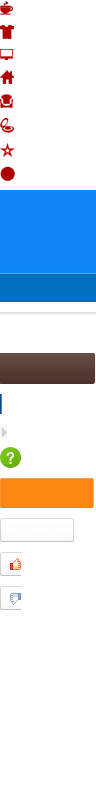
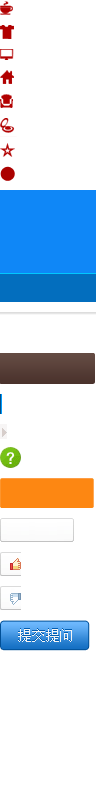
添加提问题的静态页面到程序
git-svn-id: http://www.svnchina.com/svn/xinwenda@28 847f1278-3494-4994-8dfb-0e8c01426fa5

Changed region(s): [[0.0, 0.75, 0.9375, 0.8125]]

diff --git a/static/css/style.css b/static/css/style.css
@@ -1,26 +1,26 @@
 @charset "utf-8";
 /* CSS Document */
 body{font-size:12px; padding:0px; margin:0px;}
-p,h1,h2,h3,h4,span,strong,a,img,table,td,tr,input,from,btn,ul,li,dl,dt,dd,em{margin:0px; padding:0px; list-style:none; border:none; font-style:normal;}
-a:link,a:visited{text-decoration:none; color:#333;}
+p,h1,h2,h3,h4,span,strong,a,img,table,td,tr,input,form,btn,ul,li,dl,dt,dd,em{margin:0px; padding:0px; list-style:none; border:none; font-style:normal;}
+a{text-decoration:none; color:#333;}
 a:hover{ text-decoration:underline; color:#f74c4b;}
-#top_box,.search_text,.search_btn,.food,.cloth,.education,.home,.decorate,.beautify,.new,.ask_title,.submit_btn,.praise,.praise_inner{ background:url(../images/icon.png) no-repeat;}
+#top_box,.search_text,.search_btn,.food,.cloth,.education,.home,.decorate,.beautify,.new,.ask_title,.submit_btn,.praise,.praise_inner,.question_btn{ background:url(../images/icon.png) no-repeat;}
 #top_box{width:100%; height:112px; background-position:0px -190px;background-repeat:repeat-x;}
 #top_box .top_inner{width:1010px; overflow:hidden; margin:0 auto; height:82px;}
 #top_box .logo{width:242px; height :41px; margin-top:25px; float:left;}
 #top_box .search_box{width:545px; height:58px; margin:10px 0 0; float:right;}
-#top_box .search_box p{color:#fff; height:25px; line-height:25px;}
+#top_box .search_box p{color:#fff; height:25px; line-height:25px; width:545px;}
 #top_box .search_box p a{color:#fff; margin-right:12px;}
 #top_box .search_box .search_text{float:left; width:440px; height:31px; line-height:31px;background-position:0px -312px; border-radius:5px 0 0 5px; background-repeat:repeat-x; padding-left:10px;}
-#top_box .search_box .search_btn{width:95px; height:31px;background-position:0px -353px; font-size:16px; font-family:"Microsoft Yahei"; color:#fff; cursor:pointer;}
-.nav{width:1010px; overflow:hidden; margin:0 auto; height:39px;}
-.nav li{float:left; height:29px; width:82px; text-align:center; line-height:29px; font-size:15px; font-family:"Microsoft Yahei"; background:url(../images/icon.png) no-repeat; background-position:80px -388px;}
+#top_box .search_box .search_btn{width:95px; height:31px;background-position:0px -353px; font-size:16px; font-family:"Microsoft Yahei"; color:#fff; cursor:pointer; float:left;}
+.nav{width:1010px; overflow:hidden; margin:0 auto; height:30px;}
+.nav li{float:left; height:30px; width:82px; text-align:center; line-height:30px; font-size:15px; font-family:"Microsoft Yahei"; background:url(../images/nav_line.jpg) no-repeat 80px 6px;}
 .nav .sort{width:242px; background:#329bfc;margin-top:1px;}
 .nav li a{color:#fff;}
-.nav li a:hover{ text-decoration:none;}
+.nav li a:hover{ text-decoration:none; color:#fff;}
 #content_box{width:100%; overflow:hidden;background:url(../images/banner.jpg) no-repeat top center; }
-.content_inner{width:1010px; overflow:hidden; margin:0px auto; position:relative; height:auto!important; height:658px; min-height:658px;}
-#content_box .flotage{width:254px; overflow:hidden; border-left:1px solid #e6e6e6;none;background:#fff;background:url(../images/flotage_bg.png)repeat-y right center; position:absolute; top:0x; left:0px;}
+.content_inner{width:1010px;  margin:0px auto; position:relative; height:auto !important; height:658px; min-height:658px;}
+#content_box .flotage{width:254px; overflow:hidden; border-left:1px solid #e6e6e6;float:left; background:url(../images/flotage_bg.png) repeat right top; _background:none; _border-right:1px solid #e6e6e6; _width:240px; position:absolute; left:0px; top:0px;}
 .bottom_bor{border-bottom:1px solid #e6e6e6;}
 .sort_inner{width:241px; overflow:hidden; background:#fff;}
 .sort_inner h2{width:241px; height:30px; line-height:30px; background:#e8e8e8; font-size:12px; text-align:center;}
@@ -37,7 +37,7 @@ a:hover{ text-decoration:underline; color:#f74c4b;}
 .sort_inner p a:hover{color:#f74c4b;}
 .sort_inner p .highlight{color:#b10000;}
 .content_right{width:755px; overflow:hidden; float:right; margin-top:420px;}
-.content_right .left{width:510px; float:left; margin-left:10px;border-right:1px solid #e2e2e2; padding-right:18px; margin-top:16px;}
+.content_right .left{width:510px; float:left; margin-left:10px;border-right:1px solid #e2e2e2; padding-right:18px; margin-top:16px; *display:inline;}
 .content_right h3{height:25px; line-height:25px; font-size:17px; margin-top:10px; font-family:"Microsoft Yahei"; font-weight:normal;}
 .content_right h3 a{ color:#333;}
 .content_right h3 a:hover{text-decoration:none; color:#f74c4b;}
@@ -89,6 +89,7 @@ a:hover{ text-decoration:underline; color:#f74c4b;}
 .foot h4{font-size:14px; font-family:"Microsoft Yahei"; font-weight:normal;color:#555555; height:40px; line-height:40px; clear:both;}
 .foot .foot_box{width:1010px; overflow:hidden; margin:0 auto;}
 .foot .foot_box li{width:121px; height:38px; border:1px solid #ccc; float:left; margin-right:15px;}
+.foot .foot_box li a{ display:block;}
 .foot .foot_box .friendship{font-size:12px;color:#333; margin-left:-15px;}
 .foot .foot_box .friendship a{color:#333; margin:0px 15px;}
 .foot .foot_box .sponsor{width:1010px; overflow:hidden; border-top:1px solid #cfcfcf; padding-top:15px; color:#333; margin-top:25px; text-align:center;}
@@ -105,7 +106,7 @@ a:hover{ text-decoration:underline; color:#f74c4b;}
 .filter_inner{padding:0px 15px; width:860px; line-height:30px;}
 .filter_inner a{margin-right:30px; color:#858585;}
 .filter_inner a:hover{color:#f74c4b;}
-.add_box td{width:100px; border-bottom:1px dotted #ccc;}
+.add_box td{border-bottom:1px dotted #ccc;}
 .list_content{width:1010px; overflow:hidden;border:1px solid #e2e2e2; margin:0px auto 30px;}
 .list_conL{width:717px; overflow:hidden; float:left; padding:10px 0 0 0px; background:url(../images/list_hidebg.jpg) repeat-y right top;}
 .list_conL h2{width:666px; height:30px; line-height:30px; font-size:14px; color:#333; padding-left:17px;}
@@ -146,7 +147,7 @@ a:hover{ text-decoration:underline; color:#f74c4b;}
 .ask_list .Arrange a:hover{color:#2d64b3;}
 .list_conL .f_pipe{color:#ccc; margin:0px 10px; float:none;}
 .list_conL .answerer{font-size:12px;  color:#999; padding-bottom:12px;}
-.answerer a{color:#2d64b3;}
+.ask_list .answerer a{color:#2d64b3;}
 .answer{font-size:14px; color:#333;width:652px; line-height:25px;}
 .evaluate{ color:#2d64b3;float:right; line-height:24px;}
 .praise{background-position:0px -518px; width:74px; height:24px; display:inline-block;}
@@ -154,14 +155,19 @@ a:hover{ text-decoration:underline; color:#f74c4b;}
 .praise .praise_inner{background-position:0px -552px; width:74px; text-align:center; color:#db4f1f; line-height:24px; cursor:pointer;}
 .ask_list h2{padding-left:0px;}
 .relevant dt{font-size:14px; width:450px; height:25px; overflow:hidden;}
-.relevant dt a{ color:#2d64b3;}
+.ask_list .relevant dt a{color:#2d64b3;}
+.relevant dt a:hover{color:#f74c4b;}
 .relevant dd{font-size:12px;}
 .ask_list .relevant{width:657px; overflow:hidden; line-height:25px; height:25px; padding:7px 0 0 0; border-bottom:1px dotted #ccc; font-size:13px;}
 .ask_list .no_border{ border-bottom:none;}
-
-
-
-
+.issue{font-size:14px; color:#666; width:1010px;overflow:hidden; font-family:"Microsoft Yahei"; margin-top:20px;}
+.content{width:1010px; overflow:hidden; margin:0 auto;}
+.content_question{width:692px; overflow:hidden;}
+.selection_sort h3{color:#666; height:32px; line-height:32px; font-size:12px; margin-top:10px;}
+.selection_sort select{margin-right:6px;}
+.selection_sort h3 span{font-weight:normal; color:#ccc;}
+.question_case input{width:690px; height:44px; border:1px solid #ccc; border-radius:5px; background:none;}
+.question_btn{width:90px; overflow:hidden; background-position:0px -620px; height:31px; float:right;margin:30px 0 50px; cursor:pointer;}
 
 
 

diff --git a/home/views/question/question_add.php b/home/views/question/question_add.php
@@ -1,0 +1,43 @@
+<!DOCTYPE html>
+<html lang="en-US">
+<head>
+    <meta charset="UTF-8">
+    <title><?php if (isset($meta['title'])) echo $meta['title']; ?>中国创业指导网</title>
+    <meta name="keywords" content="<?php if (isset($meta['keywords'])) echo $meta['keywords']; ?>"/>
+    <meta name="description" content="<?php if (isset($meta['description'])) echo $meta['description']; ?>"/>
+    <link rel="stylesheet" type="text/css" href="<?php echo src_url('css/style.css'); ?>"/>
+</head>
+<body>
+<?php $this->load->view('common/header.php'); ?>
+
+<div class="content">
+    <div class="content_question">
+        <h1 class="issue">发布一个新问题</h1>
+        <div class="selection_sort">
+            <h3>分类</h3>
+            <form>
+                <select>
+                    <option>-请选择-</option>
+                </select>
+                <select>
+                    <option>-请选择-</option>
+                </select>
+            </form>
+        </div>
+        <div class="selection_sort question">
+            <h3>问题</h3>
+            <div class="question_case">
+                <input name="" type="text">
+            </div>
+        </div>
+        <div class="selection_sort">
+            <h3>问题补充<span>(选填,图片只可以上传小于1M且宽高都不超过500px)</span></h3>
+            <div class="question_box"><img src="<?php echo src_url('images/question.jpg'); ?>" width="692" height="218"></div>
+            <div><input name="" type="button" class="question_btn"></div>
+        </div>
+    </div>
+</div>
+
+<?php $this->load->view('common/footer.php'); ?>
+</body>
+</html>

diff --git a/home/controllers/question.php b/home/controllers/question.php
@@ -26,4 +26,9 @@ class Question extends HM_Controller
     {
         $this->load->view('question/question_detail');
     }
+
+    public function add()
+    {
+        $this->load->view('question/question_add');
+    }
 }
